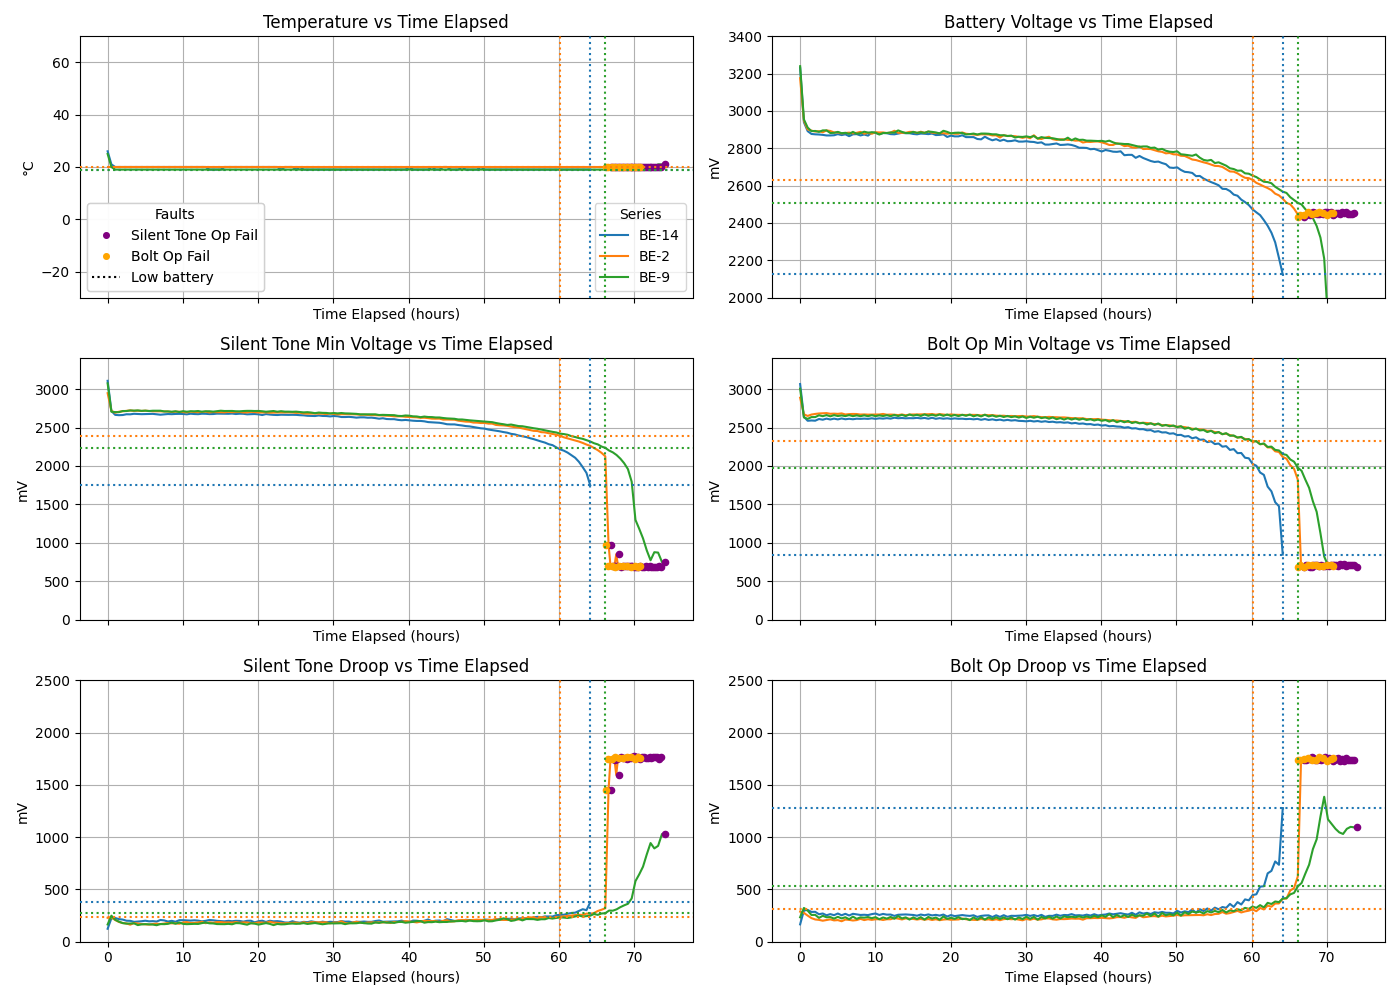
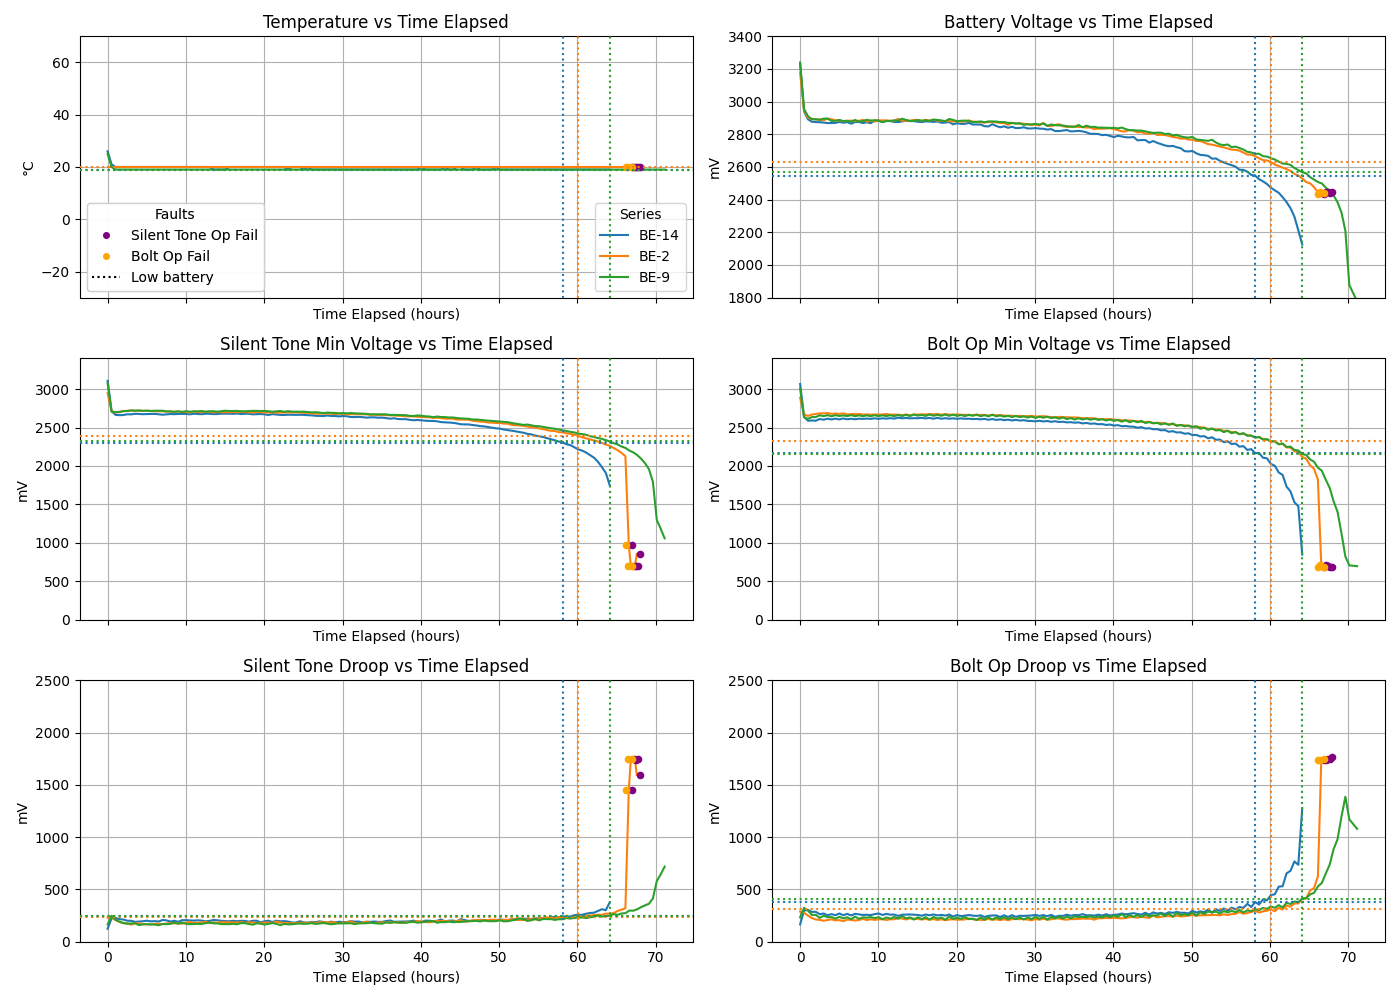
enegitech 20c

diff --git a/plot_folder.py b/plot_folder.py
@@ -6,7 +6,7 @@ import numpy as np  # NEW
 from matplotlib.lines import Line2D
 
 # CONFIGURATION
-CSV_DIR = "csvs/manufacturers-cross-temp/temp-20c/energizer"
+CSV_DIR = "csvs/manufacturers-cross-temp/temp-20c/enegitech"
 CSV_TAG = os.path.basename(os.path.normpath(CSV_DIR))
 PLOT_OUTPUT = f"plots/compare_all_{CSV_DIR.replace("/", "-")}.png"
 COMPUTE_LOW_BATT_BY_ALL_FAULTS=True
@@ -151,7 +151,7 @@ for csv_path in csv_files:
         if col == "temp":
             ax.set_ylim(-30, 70)
         elif col == "batt_mV":
-            ax.set_ylim(1000, 3400)
+            ax.set_ylim(1800, 3400)
         elif col in ("soundDroopMag_mV", "boltDroopMag_mV"):
             ax.set_ylim(0, 2500)
         else:
